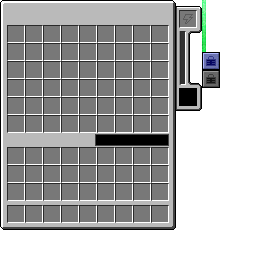
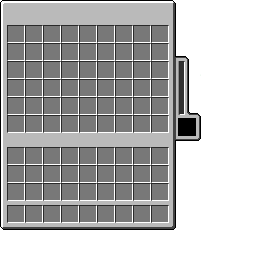
Fixed Electric Chest Reimplementation. Shift Clicking, Power. GUI.

Changed region(s): [[0.3438, 0.0, 0.875, 0.5938]]

diff --git a/src/main/java/mekanism/client/gui/GuiElectricRefrigeratedChest.java b/src/main/java/mekanism/client/gui/GuiElectricRefrigeratedChest.java
@@ -2,8 +2,10 @@ package mekanism.client.gui;
 
 import cpw.mods.fml.relauncher.Side;
 import cpw.mods.fml.relauncher.SideOnly;
+import mekanism.api.MekanismConfig;
 import mekanism.api.energy.IEnergizedItem;
-import mekanism.client.gui.element.GuiSecurityTab;
+import mekanism.api.util.ListUtils;
+import mekanism.client.gui.element.*;
 import mekanism.common.inventory.container.ContainerElectricRefrigeratedChest;
 import mekanism.common.tile.TileEntityElectricRefrigeratedChest;
 import mekanism.common.util.LangUtils;
@@ -13,98 +15,64 @@ import net.minecraft.inventory.IInventory;
 import net.minecraft.item.ItemStack;
 import org.lwjgl.opengl.GL11;
 
+import java.util.List;
+
 @SideOnly(Side.CLIENT)
-public class GuiElectricRefrigeratedChest extends GuiMekanism
-{
+public class GuiElectricRefrigeratedChest extends GuiMekanism {
     public TileEntityElectricRefrigeratedChest tileEntity;
     public boolean isBlock;
 
-    public GuiElectricRefrigeratedChest(InventoryPlayer inventory, TileEntityElectricRefrigeratedChest tentity)
-    {
-        super(tentity, new ContainerElectricRefrigeratedChest(inventory, tentity, null, true));
+        public GuiElectricRefrigeratedChest(InventoryPlayer inventory, TileEntityElectricRefrigeratedChest tentity)
+        {
+            super(tentity, new ContainerElectricRefrigeratedChest(inventory, tentity, null, true));
 
-        xSize+=26;
-        ySize+=64;
-        tileEntity = tentity;
-        isBlock = true;
+            xSize+=26;
+            ySize+=64;
+            tileEntity = tentity;
+            isBlock = true;
 
 
-        guiElements.add(new GuiSecurityTab(this, tileEntity, MekanismUtils.getResource(MekanismUtils.ResourceType.GUI, "GuiElectricRefrigeratedChest.png")));
-    }
+            guiElements.add(new GuiSecurityTab(this, tileEntity, MekanismUtils.getResource(MekanismUtils.ResourceType.GUI, "GuiElectricRefrigeratedChest.png")));
+            guiElements.add(new GuiPowerBar(this, tileEntity, MekanismUtils.getResource(MekanismUtils.ResourceType.GUI, "GuiElectricRefrigeratedChest.png"), 179, 60));
+            guiElements.add(new GuiSlot(GuiSlot.SlotType.NORMAL, this, MekanismUtils.getResource(MekanismUtils.ResourceType.GUI, "GuiElectricRefrigeratedChest.png"), 178, 118).with(GuiSlot.SlotOverlay.POWER));
 
-    public GuiElectricRefrigeratedChest(InventoryPlayer inventory, IInventory inv)
-    {
+        }
+
+    public GuiElectricRefrigeratedChest(InventoryPlayer inventory, IInventory inv) {
         super(new ContainerElectricRefrigeratedChest(inventory, null, inv, false));
 
-        xSize+=26;
-        ySize+=64;
+        xSize += 26;
+        ySize += 64;
         isBlock = false;
 
         guiElements.add(new GuiSecurityTab(this, MekanismUtils.getResource(MekanismUtils.ResourceType.GUI, "GuiElectricRefrigeratedChest.png")));
+        guiElements.add(new GuiPowerBar(this, tileEntity, MekanismUtils.getResource(MekanismUtils.ResourceType.GUI, "GuiElectricRefrigeratedChest.png"), 164, 15));
+        guiElements.add(new GuiSlot(GuiSlot.SlotType.NORMAL, this, MekanismUtils.getResource(MekanismUtils.ResourceType.GUI, "GuiElectricRefrigeratedChest.png"), 142, 34).with(GuiSlot.SlotOverlay.POWER));
     }
 
     @Override
-    protected void drawGuiContainerForegroundLayer(int mouseX, int mouseY)
-    {
+    protected void drawGuiContainerForegroundLayer(int mouseX, int mouseY) {
         int xAxis = (mouseX - (width - xSize) / 2);
         int yAxis = (mouseY - (height - ySize) / 2);
 
         fontRendererObj.drawString(LangUtils.localize("tile.MachineBlock.ElectricRefrigeratedChest.name"), 8, 6, 0x404040);
         fontRendererObj.drawString(LangUtils.localize("container.inventory"), 8, (ySize - 96) + 2, 0x404040);
 
-        if(xAxis >= 180 && xAxis <= 184 && yAxis >= 32 && yAxis <= 84)
-        {
-            drawCreativeTabHoveringText(MekanismUtils.getEnergyDisplay(getEnergy()), xAxis, yAxis);
-        }
-
         super.drawGuiContainerForegroundLayer(mouseX, mouseY);
     }
 
     @Override
-    protected void drawGuiContainerBackgroundLayer(float partialTick, int mouseX, int mouseY)
-    {
+    protected void drawGuiContainerBackgroundLayer(float partialTick, int mouseX, int mouseY) {
         mc.renderEngine.bindTexture(MekanismUtils.getResource(MekanismUtils.ResourceType.GUI, "GuiElectricRefrigeratedChest.png"));
         GL11.glColor4f(1.0F, 1.0F, 1.0F, 1.0F);
         int guiWidth = (width - xSize) / 2;
         int guiHeight = (height - ySize) / 2;
         drawTexturedModalRect(guiWidth, guiHeight, 0, 0, xSize, ySize);
 
-        int xAxis = (mouseX - (width - xSize) / 2);
-        int yAxis = (mouseY - (height - ySize) / 2);
+        int xAxis = mouseX - guiWidth;
+        int yAxis = mouseY - guiHeight;
 
-        if(xAxis >= 179 && xAxis <= 197 && yAxis >= 88 && yAxis <= 106)
-        {
-            drawTexturedModalRect(guiWidth + 179, guiHeight + 88, 176 + 26, 52, 18, 18);
-        }
-        else {
-            drawTexturedModalRect(guiWidth + 179, guiHeight + 88, 176 + 26, 70, 18, 18);
-        }
+        super.drawGuiContainerBackgroundLayer(partialTick, mouseX, mouseY);
 
-        int displayInt = getScale();
-        drawTexturedModalRect(guiWidth + 180, guiHeight + 32 + 52 - displayInt, 176 + 26, 52 - displayInt, 4, displayInt);
-    }
-
-    public int getScale()
-    {
-        if(isBlock)
-        {
-            return tileEntity.getScaledEnergyLevel(52);
-        }
-        else {
-            ItemStack stack = mc.thePlayer.getCurrentEquippedItem();
-            return (int)(((IEnergizedItem)stack.getItem()).getEnergy(stack)*52 / ((IEnergizedItem)stack.getItem()).getMaxEnergy(stack));
-        }
-    }
-
-    public double getEnergy()
-    {
-        if(isBlock)
-        {
-            return tileEntity.getEnergy();
-        }
-        else {
-            ItemStack stack = mc.thePlayer.getCurrentEquippedItem();
-            return ((IEnergizedItem)stack.getItem()).getEnergy(stack);
-        }
     }
 }

diff --git a/src/main/java/mekanism/common/inventory/container/ContainerElectricRefrigeratedChest.java b/src/main/java/mekanism/common/inventory/container/ContainerElectricRefrigeratedChest.java
@@ -3,6 +3,7 @@ package mekanism.common.inventory.container;
 import invtweaks.api.container.ChestContainer;
 import mekanism.common.block.BlockMachine;
 import mekanism.common.inventory.slot.SlotElectricRefrigeratedChest;
+import mekanism.common.inventory.slot.SlotEnergy;
 import mekanism.common.tile.TileEntityElectricRefrigeratedChest;
 import mekanism.common.util.ChargeUtils;
 import net.minecraft.entity.player.EntityPlayer;
@@ -41,6 +42,8 @@ public class ContainerElectricRefrigeratedChest extends Container
                 addSlotToContainer(new SlotElectricRefrigeratedChest(getInv(), slotX + slotY * 9, 8 + slotX * 18, 26 + slotY * 18));
             }
         }
+
+        addSlotToContainer(new SlotEnergy.SlotDischarge(getInv(), 54, 179, 119));
 
         int slotX;
 
@@ -108,9 +111,25 @@ public class ContainerElectricRefrigeratedChest extends Container
 
             if(ChargeUtils.canBeDischarged(slotStack))
             {
+                if(slotID != 54)
+                {
+                    if(!mergeItemStack(slotStack, 54, 55, false))
+                    {
+                        return null;
+                    }
+                }
+                else if(slotID == 54)
+                {
+                    if(!mergeItemStack(slotStack, 55, inventorySlots.size(), true))
+                    {
+                        return null;
+                    }
+                }
+            }
+            else {
                 if(slotID < 54)
                 {
-                    if(!mergeItemStack(slotStack, 54, inventorySlots.size(), true))
+                    if(!mergeItemStack(slotStack, 55, inventorySlots.size(), true))
                     {
                         return null;
                     }

diff --git a/src/main/java/mekanism/common/tile/TileEntityElectricRefrigeratedChest.java b/src/main/java/mekanism/common/tile/TileEntityElectricRefrigeratedChest.java
@@ -26,12 +26,6 @@ public class TileEntityElectricRefrigeratedChest extends TileEntityElectricBlock
 
     public static int[] INV;
 
-    public String password = "";
-
-    public boolean authenticated = false;
-
-    public boolean locked = false;
-
     public float lidAngle;
 
     public float prevLidAngle;
@@ -154,11 +148,6 @@ public class TileEntityElectricRefrigeratedChest extends TileEntityElectricBlock
             }
         }
 
-    }
-
-    public boolean canAccess()
-    {
-        return authenticated && (getEnergy() == 0 || !locked);
     }
 
     @Override

diff --git a/src/main/java/mekanism/client/gui/GuiPersonalChest.java b/src/main/java/mekanism/client/gui/GuiPersonalChest.java
@@ -46,7 +46,7 @@ public class GuiPersonalChest extends GuiMekanism
 		int xAxis = (mouseX - (width - xSize) / 2);
 		int yAxis = (mouseY - (height - ySize) / 2);
 		
-		fontRendererObj.drawString(LangUtils.localize("tile.MachineBlock.PersonalChest.name"), 8, 6, 0x404040);
+		fontRendererObj.drawString(LangUtils.localize("tile.MachineBlock3.PersonalChest.name"), 8, 6, 0x404040);
 		fontRendererObj.drawString(LangUtils.localize("container.inventory"), 8, (ySize - 96) + 2, 0x404040);
 
 		super.drawGuiContainerForegroundLayer(mouseX, mouseY);

diff --git a/src/main/java/mekanism/common/inventory/slot/SlotElectricRefrigeratedChest.java b/src/main/java/mekanism/common/inventory/slot/SlotElectricRefrigeratedChest.java
@@ -21,6 +21,7 @@ public class SlotElectricRefrigeratedChest extends Slot
             return false;
         }
 
-        return MachineType.get(inventory.getStackInSlot(getSlotIndex())) != MachineType.ELECTRIC_REFRIGERATED_CHEST;
+        return MachineType.get(inventory.getStackInSlot(getSlotIndex())) != MachineType.ELECTRIC_REFRIGERATED_CHEST
+                && MachineType.get(inventory.getStackInSlot(getSlotIndex())) != MachineType.PERSONAL_CHEST;
     }
 }

diff --git a/src/main/java/mekanism/common/inventory/slot/SlotPersonalChest.java b/src/main/java/mekanism/common/inventory/slot/SlotPersonalChest.java
@@ -20,6 +20,7 @@ public class SlotPersonalChest extends Slot
 			return false;
 		}
 		
-		return MachineType.get(inventory.getStackInSlot(getSlotIndex())) != MachineType.PERSONAL_CHEST;
+		return MachineType.get(inventory.getStackInSlot(getSlotIndex())) != MachineType.PERSONAL_CHEST
+				&& MachineType.get(inventory.getStackInSlot(getSlotIndex())) != MachineType.ELECTRIC_REFRIGERATED_CHEST;
 	}
 }
